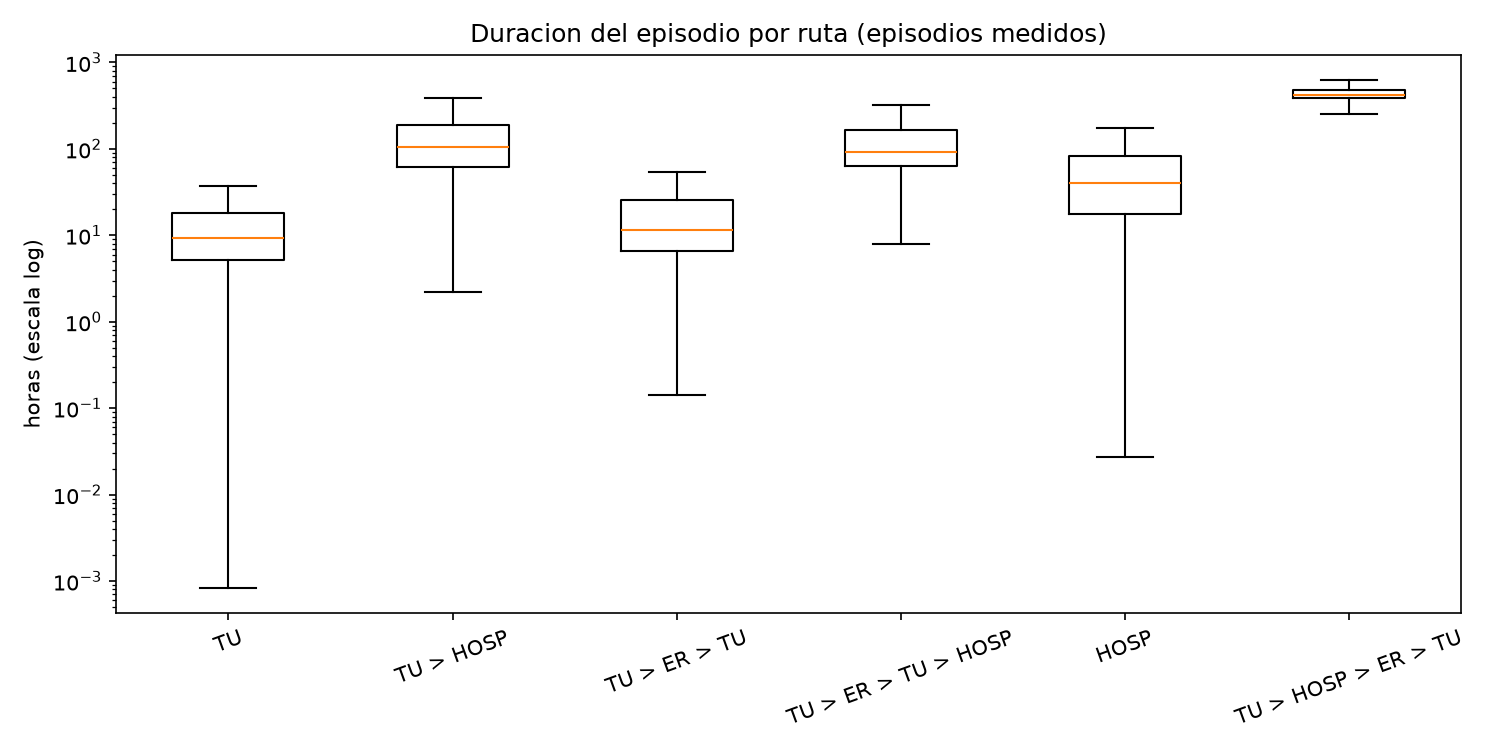
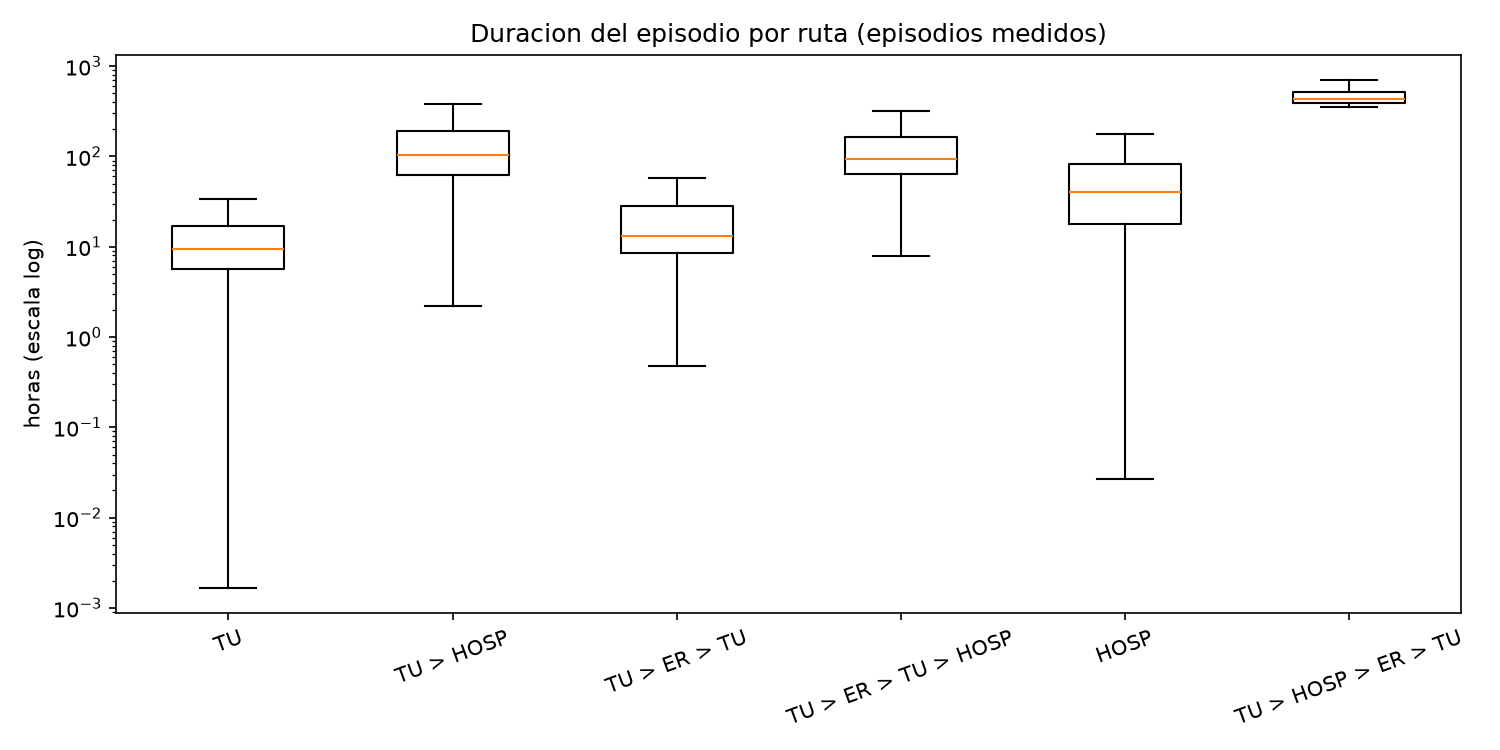
Agrega el estado minimo_conocido (v3.6) y reparte el trabajo por entregable
- analisis_etapas.py v3.6: un episodio solo es "medida" si su ultima etapa TU/HOSP tiene fin;
  si no, queda como minimo_conocido (la salida real es posterior a lo registrado)
- La espera de cama no cambia: solo depende del inicio de la primera HOSP
- Plan de accion por entregable (datos y modelos, Power BI, documentacion) con carpetas
  propias para trabajar en paralelo, y reglas para no subir datos de la base
- Carpetas powerbi/, notebooks/ y docs/hun/ con su README; .gitignore para .pbix

diff --git a/src/analisis_etapas.py b/src/analisis_etapas.py
@@ -8,6 +8,9 @@ analisis_etapas.py  -  version 3.5 (20-oct-2026)
      menor se quitan en la seccion 5 (si no, cada llegada contaria 2 o 3 veces), y lo propio de esa persona se queda;
    - diagnosticos, procedimientos y laboratorios solo se pasan a la raiz si la copia es de la misma persona
      (columna misma_persona de copias.csv).)
+(3.6: estado nuevo "minimo_conocido": episodios con tiempo pero cuya ULTIMA etapa TU/HOSP tiene inicio = fin.
+ La salida real es posterior a la ultima hora registrada, asi que la duracion es un minimo y no entra a las
+ estadisticas de tiempo. La espera de cama no cambia: solo usa el inicio de la primera HOSP.)
 (3.4: parametro MODO_COPIAS)
 (3.1: guarda bloques.csv | 3.2: guarda copias.csv y pasa diagnosticos/procedimientos de las
  copias a su visita original antes de clasificar los episodios | 3.3: las ETAPAS de una copia
@@ -89,7 +92,7 @@ MIN_DX_H = 0.25      # la duracion minima estimada por diagnosticos debe ser de 
 MIN_EPISODIOS = 30   # rutas con menos episodios medidos se marcan como poco confiables
 AMB, ER, TU, HOSP = 581479, 9203, 3045729, 9201
 TIPOS = {ER: "Urgencias", TU: "Treatment urgency", HOSP: "Inpatient", AMB: "Ambulatorio"}
-ESTADOS = ["medida", "minimo_dx", "sin_duracion", "sin_actividad"]
+ESTADOS = ["medida", "minimo_conocido", "minimo_dx", "sin_duracion", "sin_actividad"]
 
 pd.set_option("display.width", 220)
 pd.set_option("display.max_columns", None)
@@ -357,6 +360,10 @@ ep = bloques.groupby(K).agg(ruta=("etapa", " > ".join),
                             ini=("ini", "min"), fin=("fin", "max"),
                             n_etapas=("n_etapas", "sum"))
 ep["con_tiempo"] = vd.groupby(K).con_tiempo.any()
+# v3.6: la ultima etapa TU/HOSP del episodio debe tener fin > inicio; si no, la salida real es posterior
+# a la ultima hora registrada y la duracion que se calcula es solo un minimo
+_ult = vd[vd.etapa != "ER"].groupby(K).tail(1).set_index(K)
+ep["ultima_cerrada"] = (_ult.visit_detail_end_datetime > _ult.visit_detail_start_datetime).reindex(ep.index).fillna(False)
 ep["horas_total"] = (ep.fin - ep.ini).dt.total_seconds() / 3600
 ep = ep.reset_index()
 ep["ruta_simple"] = ep.ruta.str.replace(r"^ER > ", "", regex=True)
@@ -397,15 +404,16 @@ ep["n_proc"] = ep.n_proc.fillna(0)
 actividad = (ep.n_dx > 0) | (ep.n_proc > 0)
 
 ep["estado"] = np.select(
-    [ep.con_tiempo, ep.horas_dx >= MIN_DX_H, actividad],
-    ["medida", "minimo_dx", "sin_duracion"], "sin_actividad")
+    [ep.con_tiempo & ep.ultima_cerrada, ep.con_tiempo, ep.horas_dx >= MIN_DX_H, actividad],
+    ["medida", "minimo_conocido", "minimo_dx", "sin_duracion"], "sin_actividad")
 if not (hay_dx and hay_proc):
     print("\nAVISO: faltan dx_por_visita.csv o proc_por_visita.csv; 'sin_actividad' no es confiable.")
 
-ep["error_probable"] = (ep.estado == "medida") & (ep.horas_total > MAX_H)
+ep["error_probable"] = ep.con_tiempo & (ep.horas_total > MAX_H)
 
 titulo("7. ESTADO DE LOS EPISODIOS")
-print("medida = alguna etapa TU o HOSP con fin posterior al inicio")
+print("medida = alguna etapa TU o HOSP con fin posterior al inicio Y la ultima etapa TU/HOSP tambien cerrada")
+print("minimo_conocido = tiene etapas con tiempo, pero la ultima etapa no tiene fin: la duracion es solo un minimo")
 print("minimo_dx = sin fin real, pero con un diagnostico que da una duracion minima")
 print("sin_duracion = sin fin real y sin estimacion, pero con diagnosticos o procedimientos")
 print("sin_actividad = sin fin real y sin ningun diagnostico ni procedimiento")
@@ -440,7 +448,7 @@ cob_ruta = cobertura(ep, "ruta_simple")
 cob_tipo = cobertura(ep, "tipo_visita")
 glob = (100 * ep.estado.value_counts(normalize=True)).reindex(ESTADOS).fillna(0).round(1).rename("pct")
 glob_act = (100 * ep[ep.estado != "sin_actividad"].estado.value_counts(normalize=True)) \
-    .reindex(ESTADOS[:3]).fillna(0).round(1).rename("pct")
+    .reindex(ESTADOS[:-1]).fillna(0).round(1).rename("pct")
 
 titulo("8. COBERTURA")
 print("por ruta (las 10 mas frecuentes):\n" + cob_ruta.head(10).to_string())
@@ -475,7 +483,9 @@ print(por_etapa[por_etapa.ruta_simple.isin(orden[:4])].round(2).to_string(index=
 # ----------------------------------------------------------------------
 # 10) Espera de cama: del inicio del episodio a la primera HOSP
 # ----------------------------------------------------------------------
-bh = bloques.merge(ok[K + ["ini", "ruta_simple", "tipo_visita"]].rename(columns={"ini": "ini_ep"}), on=K)
+# la espera de cama solo necesita el inicio de la primera HOSP: sirve tambien si la ultima etapa quedo sin cierre
+ok_esp = ep[ep.con_tiempo & ~ep.error_probable]
+bh = bloques.merge(ok_esp[K + ["ini", "ruta_simple", "tipo_visita"]].rename(columns={"ini": "ini_ep"}), on=K)
 ini_hosp = bh[bh.etapa == "HOSP"].groupby(K).ini.min().rename("ini_hosp")
 bh = bh.merge(ini_hosp, left_on=K, right_index=True)
 antes = bh[bh.ini < bh.ini_hosp]
@@ -582,7 +592,7 @@ try:
     plt.close()
 
     pct = cob_ruta.head(6)[["pct_" + e for e in ESTADOS]]
-    pct.columns = ["medida", "minimo (diagnosticos)", "sin duracion", "sin actividad clinica"]
+    pct.columns = ["medida", "minimo conocido (ultima etapa sin cierre)", "minimo (diagnosticos)", "sin duracion", "sin actividad clinica"]
     ax = pct.iloc[::-1].plot(kind="barh", stacked=True, figsize=(10, 4))
     ax.set_xlabel("% de episodios")
     ax.set_ylabel("")

diff --git a/src/preparar_variables.py b/src/preparar_variables.py
@@ -416,7 +416,8 @@ print("\nLectura: esto muestra asociaciones, no causas. La ocupacion y la hora s
 print("el modelo de la semana 3 separa el efecto de cada una.")
 
 titulo("8b. FACTORES DE LA DURACION DE LOS EPISODIOS DE ALTA DESDE URGENCIAS (ruta TU, medidos)")
-print("OJO: solo el 45 % de estos episodios tiene hora de fin; puede haber sesgo.")
+_tu = ep[ep.ruta_simple == "TU"]
+print(f"OJO: solo el {100 * _tu.horas_validas.notna().mean():.0f} % de estos episodios tiene hora de fin completa; puede haber sesgo.")
 print(fac_tu.groupby("variable").rango_de_la_variable_h.first().sort_values(ascending=False).round(1).to_string())
 
 # ----------------------------------------------------------------------
@@ -426,7 +427,7 @@ DICC = {
     "visit_occurrence_id, episodio": "llave del episodio (una visita puede tener varios episodios)",
     "ruta / ruta_simple": "orden de etapas; ruta_simple quita la ER inicial",
     "ini / fin": "inicio de la primera etapa y fin de la ultima etapa del episodio",
-    "estado": "medida / minimo_dx / sin_duracion / sin_actividad (ver analisis_etapas.py)",
+    "estado": "medida / minimo_conocido / minimo_dx / sin_duracion / sin_actividad (ver analisis_etapas.py)",
     "horas_validas": "duracion total, solo si estado = medida y no es error probable",
     "espera_cama_h": "inicio del episodio hasta la primera HOSP (solo hospitalizados)",
     "hueco_antes_hosp_h": "tiempo sin ninguna etapa justo antes de la HOSP",

diff --git a/docs/plan_de_accion.md b/docs/plan_de_accion.md
@@ -14,7 +14,7 @@ Equipo de 3. Solo una persona tiene Claude (**Daniela**); las otras dos trabajan
 | 5 | **El tipo de visita no es confiable** | Visitas "ambulatorias" incluyen urgencias y hospitalización. | Usamos las etapas, no el tipo de visita. |
 | 6 | **Ocupación incompleta** | Solo vemos a los pacientes de esta base; no sabemos cuántas camas tiene el hospital. La ocupación casi no cambia la espera, pero puede ser por esto. | Se pide al HUN el número de camas. |
 
-Resultado actual: 337.194 episodios; 45 % con duración medida; **espera de cama: mediana 22,4 h, 48 % espera más de 24 h**;
+Resultado actual: 337.194 episodios; 37 % con duración medida y 8 % con un mínimo conocido (v3.6); **espera de cama: mediana 22,4 h, 48 % espera más de 24 h**;
 la espera es más larga si se llega en la tarde (26,8 h) que de madrugada (16,0 h).
 
 ## 2. Qué más podemos revisar (en orden de utilidad)
@@ -29,44 +29,68 @@ la espera es más larga si se llega en la tarde (26,8 h) que de madrugada (16,0 
 
 No hace falta bajar otras tablas por ahora.
 
-## 3. Quién hace qué
+## 3. Qué piden los organizadores y cómo lo repartimos
 
-### Daniela (con Claude): datos, modelos y repo
-- Mantener los scripts (`src/`), correr consultas en DBeaver y exportar.
-- Revisión 1 y 2 de la sección anterior.
-- **Modelo A** (llegadas por día y hora) y **Modelo B** (riesgo de esperar más de 24 h), validación temporal.
-- Exportar las tablas agregadas para Power BI y compartirlas por el drive privado.
-- Commits (sin datos de la base) y el README para reproducir todo.
+Los entregables son tres: **documentación**, **repositorio en GitHub** y **dashboard en Power BI**. Se valora:
+hallazgos estratégicos, interpretabilidad, visualización efectiva y comunicación clara. Las propuestas pueden incluir
+modelos predictivos, dashboards, sistemas de alerta temprana, análisis de patrones y **modelos de simulación**.
+Cada persona es dueña de un entregable y de una carpeta del repo, para trabajar a la vez sin conflictos.
 
-### Persona 2: Power BI (dashboard)
-- Semana 1: aprender la estructura de los datos con `docs/` y `CLAUDE.md`; armar el modelo en Power BI con
-  `serie_diaria`, `mapa_calor_llegadas`, `factores_espera_cama` (que entrega Daniela).
+| Entregable | Responsable | Carpeta del repo | Qué entrega |
+|---|---|---|---|
+| **Datos + modelos** (alimenta a los tres) | **Daniela con Claude** | `src/`, `sql/`, `notebooks/modelos/` | Scripts, tabla de episodios, Modelo A (llegadas) y Modelo B (riesgo de esperar > 24 h), tablas agregadas para Power BI y documento |
+| **Dashboard Power BI** | **Persona 2** | `powerbi/` | Dashboard de 5 páginas, plantilla `.pbit` (sin datos), lista de medidas DAX y capturas |
+| **Documentación y propuestas** | **Persona 3** | `docs/`, `docs/hun/`, `datos/referencia/`, `notebooks/simulacion/` | Documento final, README, correspondencia con el HUN, `mapeo_dx.csv`, recomendaciones y simulación de escenarios |
+
+### Detalle por persona
+
+**Daniela + Claude (datos y modelos)**
+- Mantener `src/` y correr las consultas en DBeaver.
+- Revisión: ¿se parecen los casos con y sin hora de salida? (define qué se puede afirmar sobre urgencias).
+- Modelo A: pronóstico de llegadas por día y hora. Modelo B: riesgo de esperar más de 24 h por cama.
+  Entrenar con 2023–2025 y probar con 2026; solo variables conocidas al llegar.
+- Exportar cada martes y viernes las tablas agregadas al **drive privado** del equipo (nunca a git).
+- Revisar los *pull requests* de los demás y hacer el commit final.
+
+**Persona 2 (Power BI)**
+- Semana 1: conectar `serie_diaria`, `serie_horaria`, `mapa_calor_llegadas`, `factores_espera_cama` (del drive).
 - Páginas: (1) llegadas por hora y día, (2) rutas del paciente, (3) espera de cama por hora, edad y diagnóstico,
   (4) resultados del modelo, (5) recomendaciones.
-- Criterio de calidad: que cada página responda una pregunta del hospital en una frase.
+- Guardar en el repo solo la plantilla `.pbit`, el archivo `powerbi/medidas_dax.md` y capturas. El `.pbix` lleva datos
+  incrustados y **no se sube**.
+- Criterio: cada página responde una pregunta del hospital en una frase.
 
-### Persona 3: documento, HUN y recomendaciones
-- **Enviar el correo al HUN esta semana** (preguntas 1–10 de `CLAUDE.md`, sección 8) y seguir las respuestas.
-- Armar el documento: contexto, metodología (en español claro), limitaciones (tabla de la sección 1) y hallazgos.
-- Revisar con apoyo de fuentes públicas el `mapeo_dx.csv` que prepare Claude (nadie del equipo es médico:
-  usar el navegador de SNOMED o consultar a un docente de salud).
-- Investigar prácticas conocidas para reducir esperas de cama (altas antes del mediodía, gestión de camas) para
-  respaldar las recomendaciones.
+**Persona 3 (documentación, HUN y propuestas)** — trabaja en paralelo desde el primer día
+- **Esta semana:** enviar el correo al HUN con las preguntas de `CLAUDE.md` sección 8; guardar sus respuestas en `docs/hun/`.
+- **Documento:** contexto, metodología en español claro, tabla de limitaciones (sección 1) y hallazgos. Se escribe mientras
+  salen los resultados, no al final.
+- **`datos/referencia/mapeo_dx.csv`:** Claude deja un borrador con los ~300 diagnósticos más frecuentes; Persona 3 lo
+  revisa con el navegador de SNOMED o con un docente de salud (nadie del equipo es médico). Este archivo sí va al repo.
+- **Componente 4 (propuestas):** investigar prácticas conocidas para bajar esperas de cama (altas antes del mediodía,
+  gestión diaria de camas, alertas tempranas) y respaldarlas con fuentes.
+- **Simulación** (`notebooks/simulacion/`): un modelo sencillo de "qué pasaría si" (por ejemplo, adelantar las altas al
+  mediodía) usando las tablas agregadas que entrega Daniela. Es lo que convierte las recomendaciones en números.
 
 ## 4. Calendario
 
-| Semana | Daniela + Claude | Persona 2 | Persona 3 | Entregable |
+| Semana | Daniela + Claude | Persona 2 (Power BI) | Persona 3 (doc, HUN, propuestas) | Entregable |
 |---|---|---|---|---|
-| **20–26 oct** | Scripts v3.5 listos (hecho). Revisión 1. `mapeo_dx.csv` borrador. Exportar tablas para Power BI | Instalar Power BI y conectar las tablas de ejemplo | **Enviar correo al HUN.** Esqueleto del documento | Repo |
-| **27 oct–2 nov** | Componentes 1 y 2: rutas, llegadas, espera según hora/congestión/edad/diagnóstico; probar altas tardías | Páginas 1–3 del dashboard | Redactar metodología y limitaciones | Doc + primeras páginas de Power BI |
-| **3–9 nov** | Modelo A y B; entrenar 2023–2025, probar 2026 | Página 4 (modelo) | Redactar resultados del componente 2 | Repo + doc |
-| **10–16 nov** | Cuantificar recomendaciones ("si las altas fueran antes del mediodía, la espera bajaría X h") | Página 5 y pulido visual | Recomendaciones y respuestas del HUN | Power BI + doc |
-| **17–23 nov** | README; reproducir todo desde cero en otra máquina | Publicar el enlace de Power BI | Documento final | Los 3 entregables |
+| **20–26 oct** | Scripts v3.6 (hecho). Revisión de casos con/sin hora de salida. Borrador de `mapeo_dx.csv`. Primera exportación de tablas | Instalar Power BI, conectar tablas de ejemplo | **Correo al HUN.** Esqueleto del documento y README | Repo |
+| **27 oct–2 nov** | Componentes 1 y 2: rutas, llegadas, espera según hora, congestión, edad y diagnóstico | Páginas 1–3 | Metodología y limitaciones; revisar `mapeo_dx.csv` | Doc + primeras páginas de Power BI |
+| **3–9 nov** | Modelos A y B | Página 4 | Resultados del componente 2; empezar la simulación | Repo + doc |
+| **10–16 nov** | Cuantificar recomendaciones con la simulación | Página 5 y pulido | Recomendaciones y respuestas del HUN | Power BI + doc |
+| **17–23 nov** | README técnico; reproducir todo desde cero | Publicar el enlace de Power BI | Documento final | Los 3 entregables |
 | **24–30 nov** | Colchón y presentación | Colchón | Colchón | — |
 
-## 5. Reglas del equipo
-- **Nada de datos de la base en git.** Las carpetas `datos/` y `resultados/tablas|excel` están ignoradas. Las tablas
-  agregadas se comparten por un drive privado del equipo.
-- Las decisiones de método viven en `CLAUDE.md` (sección 5); si alguien quiere cambiar una, se discute primero.
+## 5. Cómo trabajamos a la vez en el repositorio
+- **Cada quien en su carpeta** (tabla de la sección 3): casi no hay conflictos. `src/` es solo de Daniela; si alguien
+  necesita un cambio, lo pide.
+- **Una rama por persona** (`powerbi`, `docs`, `modelos`) y *pull request* hacia `main`; Daniela revisa. Mensajes de
+  commit en español y sin datos.
+- **Nada de datos de la base en git.** `datos/crudos`, `datos/procesados`, `resultados/tablas`, `resultados/excel` y los
+  `.pbix` están ignorados. Antes de cada commit: `git status` y comprobar que no hay `.csv`, `.parquet`, `.xlsx` ni `.pbix`.
+  La única excepción es `datos/referencia/` (listas hechas a mano, como `mapeo_dx.csv`, sin datos de pacientes).
+- Las tablas agregadas se comparten por un drive privado del equipo, con el nombre y la fecha de la corrida.
+- Las decisiones de método viven en `CLAUDE.md` (sección 5); para cambiar una, se discute antes.
 - Cada hallazgo en el documento lleva su limitación al lado (por ejemplo, la falta de hora de salida).
-- No pulir más la limpieza: lo que queda no cambia las medianas.
+- No pulir más la limpieza: lo que queda no cambia las medianas de la espera de cama.

diff --git a/CLAUDE.md b/CLAUDE.md
@@ -184,8 +184,12 @@ el 1 da contexto y el 4 sale de los dos anteriores.
   candidatas de otra persona se conservan como visitas; sus etapas idénticas a las de la visita de id menor se quitan
   en la sección 5 (319.784 visitas de otra persona quedan fuera por tener TODAS sus etapas repetidas) y lo propio de
   cada persona se queda. Si se conservaran enteras, los episodios subirían a 743.802 y el 67 % serían idénticos entre sí.
-- Resultados v3.5: episodios 337.194 · medida 45,2 % · TU medida 48,9 % · espera de cama mediana 22,4 h (n = 34.537) ·
-  llegadas por día mediana 264 · diagnóstico principal en 23,6 % de los episodios (antes 3 %).
+- Resultados v3.5: episodios 337.194 · espera de cama mediana 22,4 h (n = 34.537) · llegadas por día mediana 264 ·
+  diagnóstico principal en 23,6 % de los episodios (antes 3 %).
+- **v3.6 (estado nuevo `minimo_conocido`):** el 21,7 % de los episodios TU "medidos" terminaba en una etapa con inicio = fin,
+  o sea la salida real es posterior a lo que medimos (duración truncada). Ahora `medida` exige que la ÚLTIMA etapa TU/HOSP
+  esté cerrada. Estados: medida 37,3 % · minimo_conocido 7,9 % · minimo_dx 12,7 % · sin_duracion 20,4 % · sin_actividad 21,7 %.
+  TU medida 38,2 % (mediana 9,5 h). La espera de cama no cambia (solo usa el inicio de la primera HOSP).
 - Dx, procedimientos y laboratorios solo se pasan a la raíz desde copias de la MISMA persona (`misma_persona` en copias.csv).
   Pendiente opcional: re-exportar las consultas 2–4 filtrando `co.person_id = vo.person_id` para quitar los registros
   que una visita tiene de otra persona.
@@ -228,7 +232,8 @@ el 1 da contexto y el 4 sale de los dos anteriores.
 3. Ruta = secuencia de bloques (`ER > TU > HOSP`). `ruta_simple` quita la ER inicial (dura minutos).
    `hospitalizado` = el episodio tiene HOSP.
 4. **Estado de cada episodio:**
-   - `medida`: alguna etapa TU o HOSP con fin > inicio → duración confiable.
+   - `medida`: alguna etapa TU o HOSP con fin > inicio Y la última etapa TU/HOSP también cerrada → duración confiable.
+   - `minimo_conocido` (v3.6): tiene etapas con tiempo pero la última no tiene fin → la duración es solo un mínimo.
    - `minimo_dx`: sin fin real, con un diagnóstico que da una duración mínima (no usar para tiempos).
    - `sin_duracion`: sin fin, pero con diagnósticos o procedimientos.
    - `sin_actividad`: sin fin y sin nada clínico.
@@ -299,7 +304,7 @@ Orden: `src/analisis_etapas.py` → `src/preparar_variables.py`. (`archivo/Revis
 | procedimientos_por_visita.csv | visit_occurrence_id, n_proc_distintos | consulta 3 (opcional) |
 | laboratorios_por_visita.csv | visit_occurrence_id, n_lab, n_lab_distintos, n_lab_6h, n_lab_antes_hosp | consulta 4 v2 (la vieja solo trae n_lab y n_lab_distintos) |
 
-### analisis_etapas.py (v3.5)
+### analisis_etapas.py (v3.6)
 Secciones: 1 carga · 2 limpieza (AMB, abiertas) · 3 copias · 4 huecos y episodios · 5 etapas repetidas en otra
 visita · 6 bloques y episodios · 7 estado · 8 cobertura · 9 tiempos · 10 espera de cama · 11 extremos ·
 12 estimación por diagnósticos.

diff --git a/notebooks/README.md b/notebooks/README.md
@@ -1,0 +1,6 @@
+# notebooks/
+
+- `modelos/`: modelos A (llegadas) y B (espera > 24 h). Responsable: Daniela.
+- `simulacion/`: escenarios 'que pasaria si'. Responsable: Persona 3.
+
+Solo se suben notebooks **sin salidas** (limpiar celdas antes de commit) para no filtrar datos.

diff --git a/powerbi/README.md b/powerbi/README.md
@@ -1,0 +1,5 @@
+# powerbi/ (responsable: Persona 2)
+
+Aqui van la plantilla `.pbit` (sin datos), `medidas_dax.md` y capturas de pantalla.
+El `.pbix` lleva datos incrustados: **no se sube a git**.
+Las tablas se descargan del drive privado del equipo.

diff --git a/docs/hun/README.md b/docs/hun/README.md
@@ -1,0 +1,3 @@
+# docs/hun/
+
+Correo enviado al HUN y sus respuestas (Persona 3). Preguntas: `CLAUDE.md`, seccion 8.
